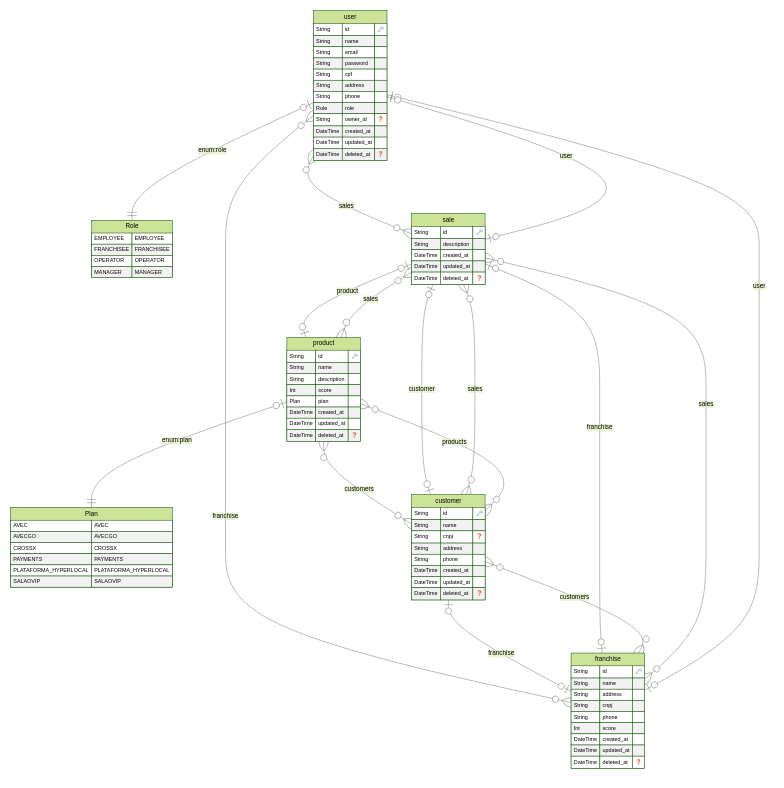
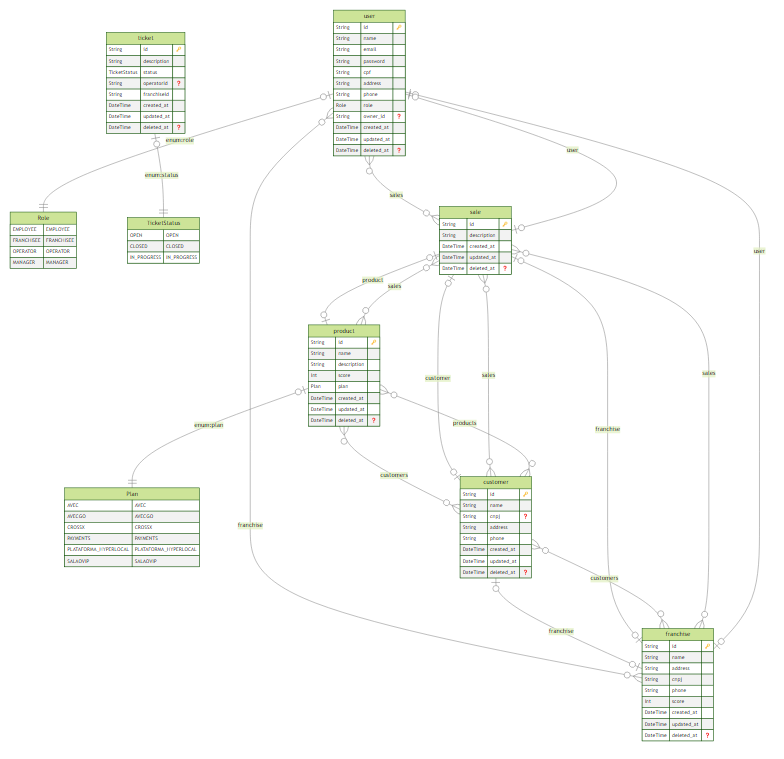
feature: nest g tickets

diff --git a/src/ticket/ticket.controller.ts b/src/ticket/ticket.controller.ts
@@ -1,0 +1,42 @@
+import {
+  Controller,
+  Get,
+  Post,
+  Body,
+  Patch,
+  Param,
+  Delete,
+} from '@nestjs/common';
+import { TicketService } from './ticket.service';
+import { CreateTicketDto } from './dto/create-ticket.dto';
+import { UpdateTicketDto } from './dto/update-ticket.dto';
+
+@Controller('ticket')
+export class TicketController {
+  constructor(private readonly ticketService: TicketService) {}
+
+  @Post()
+  create(@Body() createTicketDto: CreateTicketDto) {
+    return this.ticketService.create(createTicketDto);
+  }
+
+  @Get()
+  findAll() {
+    return this.ticketService.findAll();
+  }
+
+  @Get(':id')
+  findOne(@Param('id') id: string) {
+    return this.ticketService.findOne(+id);
+  }
+
+  @Patch(':id')
+  update(@Param('id') id: string, @Body() updateTicketDto: UpdateTicketDto) {
+    return this.ticketService.update(+id, updateTicketDto);
+  }
+
+  @Delete(':id')
+  remove(@Param('id') id: string) {
+    return this.ticketService.remove(+id);
+  }
+}

diff --git a/src/ticket/ticket.service.ts b/src/ticket/ticket.service.ts
@@ -1,0 +1,26 @@
+import { Injectable } from '@nestjs/common';
+import { CreateTicketDto } from './dto/create-ticket.dto';
+import { UpdateTicketDto } from './dto/update-ticket.dto';
+
+@Injectable()
+export class TicketService {
+  create(createTicketDto: CreateTicketDto) {
+    return 'This action adds a new ticket';
+  }
+
+  findAll() {
+    return `This action returns all ticket`;
+  }
+
+  findOne(id: number) {
+    return `This action returns a #${id} ticket`;
+  }
+
+  update(id: number, updateTicketDto: UpdateTicketDto) {
+    return `This action updates a #${id} ticket`;
+  }
+
+  remove(id: number) {
+    return `This action removes a #${id} ticket`;
+  }
+}

diff --git a/src/app.module.ts b/src/app.module.ts
@@ -10,6 +10,7 @@ import { ProductModule } from './product/product.module';
 import { FranchiseModule } from './franchise/franchise.module';
 import { CustomerModule } from './customer/customer.module';
 import { SaleModule } from './sale/sale.module';
+import { TicketModule } from './ticket/ticket.module';
 
 
 @Module({
@@ -25,6 +26,7 @@ import { SaleModule } from './sale/sale.module';
     FranchiseModule,
     CustomerModule,
     SaleModule,
+    TicketModule,
   ],
   controllers: [AppController],
   providers: [AppService],

diff --git a/src/ticket/ticket.module.ts b/src/ticket/ticket.module.ts
@@ -1,0 +1,9 @@
+import { Module } from '@nestjs/common';
+import { TicketService } from './ticket.service';
+import { TicketController } from './ticket.controller';
+
+@Module({
+  controllers: [TicketController],
+  providers: [TicketService]
+})
+export class TicketModule {}

diff --git a/src/ticket/dto/update-ticket.dto.ts b/src/ticket/dto/update-ticket.dto.ts
@@ -1,0 +1,4 @@
+import { PartialType } from '@nestjs/swagger';
+import { CreateTicketDto } from './create-ticket.dto';
+
+export class UpdateTicketDto extends PartialType(CreateTicketDto) {}

diff --git a/src/ticket/dto/create-ticket.dto.ts b/src/ticket/dto/create-ticket.dto.ts
@@ -1,0 +1,1 @@
+export class CreateTicketDto {}

diff --git a/src/ticket/entities/ticket.entity.ts b/src/ticket/entities/ticket.entity.ts
@@ -1,0 +1,1 @@
+export class Ticket {}
